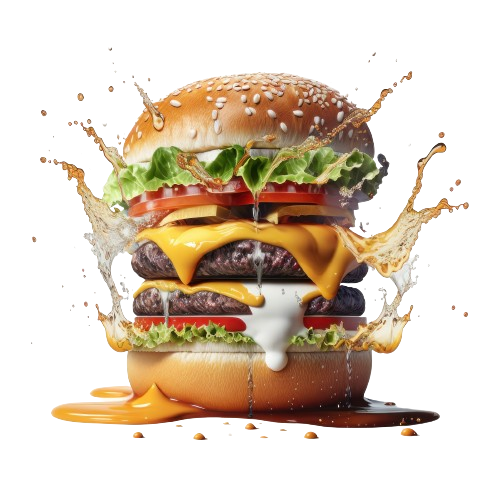
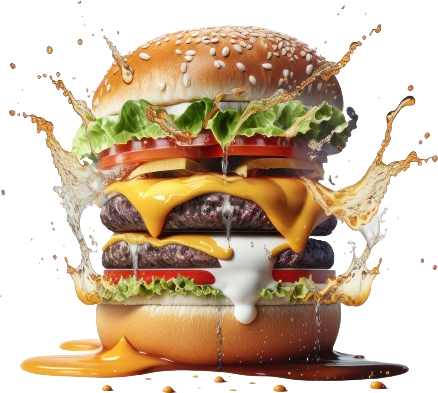
minor screen fixed

diff --git a/src/components/NavBar.js b/src/components/NavBar.js
@@ -77,24 +77,18 @@ export default function Navbar() {
           <FaHamburger className="text-2xl" onClick={onToggleShow} />
         )}
         {showNav && (
-          <ul className="lg:flex md:flex flex flex-col items-center absolute left-0 right-0 top-16 pt-11 py-10 gap-10 bg-dark-blue z-10">
+          <ul className="lg:flex md:flex flex flex-col items-center absolute left-0 right-0 top-16 pt-11 py-10 gap-10 text-dirty-white bg-dark-blue z-10">
             <a href="#hero" onClick={onToggleShow}>
-              <NavbarList className="text-lg font-bold text-dirty-white">
-                Home
-              </NavbarList>
+              <NavbarList className="text-lg font-bold ">Home</NavbarList>
             </a>
             <a href="#burger-show" onClick={onToggleShow}>
-              <NavbarList className="text-lg font-bold text-dirty-white">
-                Recommended
-              </NavbarList>
+              <NavbarList className="text-lg font-bold">Recommended</NavbarList>
             </a>
             <a href="#menu-section" onClick={onToggleShow}>
-              <NavbarList className="text-lg font-bold text-dirty-white">
-                Menu
-              </NavbarList>
+              <NavbarList className="text-lg font-bold ">Menu</NavbarList>
             </a>
             <a href="#testimonials" onClick={onToggleShow}>
-              <NavbarList className="text-lg font-bold text-dirty-white">
+              <NavbarList className="text-lg font-bold ">
                 Testimonials
               </NavbarList>
             </a>

diff --git a/src/components/BurgerShow.js b/src/components/BurgerShow.js
@@ -4,16 +4,16 @@ import {} from "react-icons/bs";
 export default function BurgerShow() {
   return (
     <div
-      className="section-burger-show text-dark-blue bg-medium-orange"
+      className="section-burger-show w-screen text-dark-blue bg-medium-orange"
       id="burger-show"
     >
-      <div className="pos-burger gap-10">
+      <div className="pos-burger gap-10 w-full">
         <p className="font-bold">
           Overload Burger, A bold fusion of premium beef, smoky bacon, and
           savory delights in every bite.
         </p>
 
-        <div className="burger-show">
+        <div className="burger-show w-full">
           <div className="w-72 h-64 mt-400 lg:flex hidden flex-col justify-end items-center gap-4">
             <BsArrowDown className="text-4xl arrow" />
             <h2 className="text-center font-semibold uppercase">
@@ -32,7 +32,7 @@ export default function BurgerShow() {
             <img
               src="./images/burger-full.png"
               alt="burger"
-              className="main-burger lg:min-w-480 md:min-w-480 sm:min-w-480 min-w-450"
+              className="main-burger lg:min-w-480 md:min-w-480 sm:w-480 w-480 mt-8"
             />
           </div>
           <h1 className="text-5xl uppercase font-bold w-72 lg:flex justify-start items-center hidden">

diff --git a/src/index.css b/src/index.css
@@ -102,7 +102,7 @@ html {
 /*Special Offer Section*/
 
 .testimony {
-  width: 480px;
+  width: auto;
 }
 
 .special-offer {
